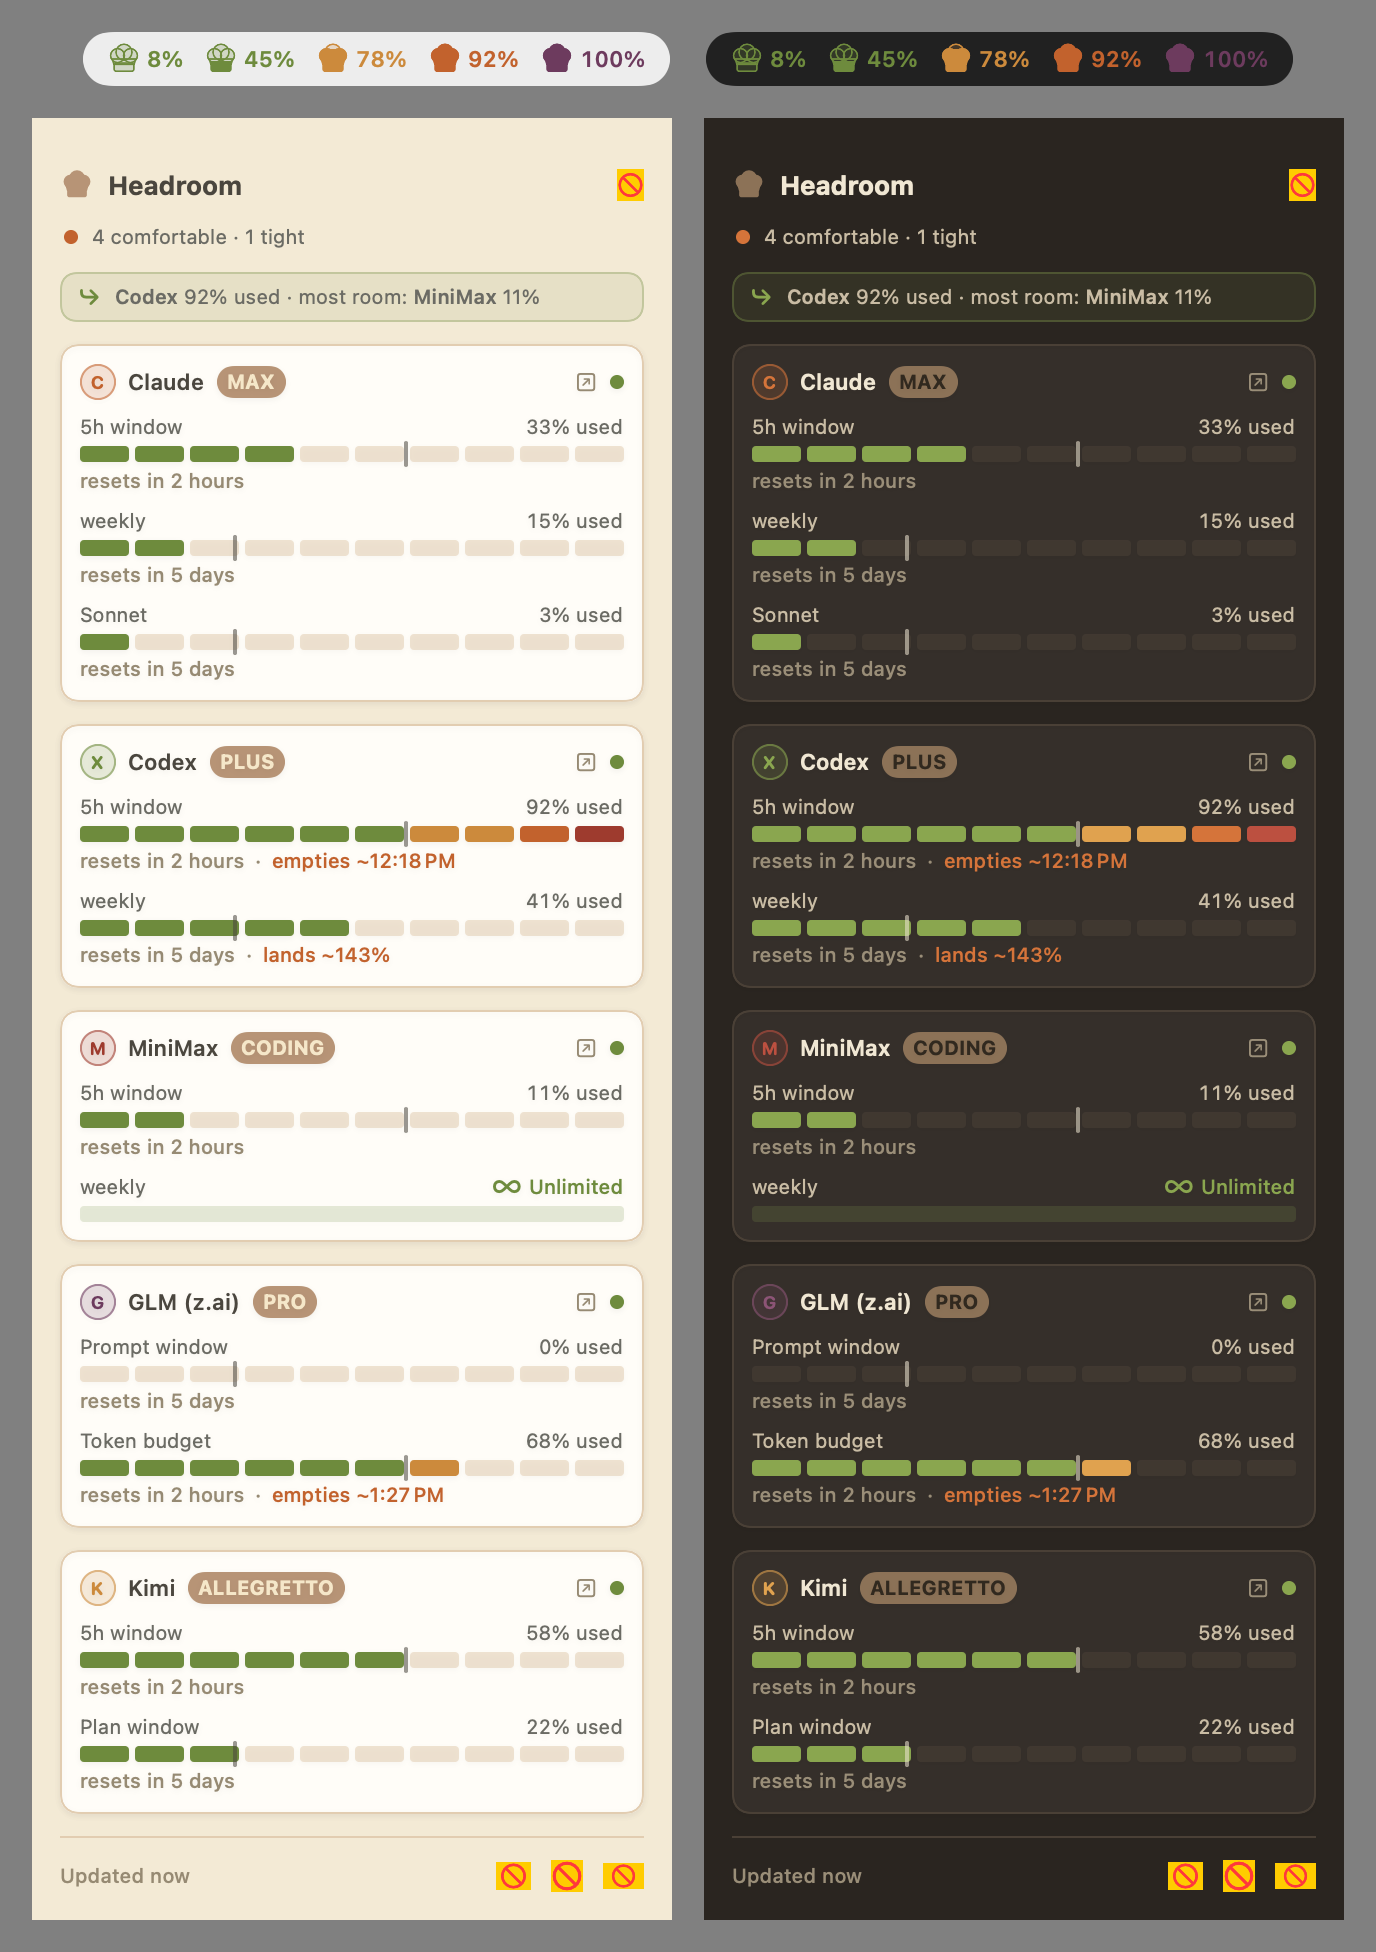
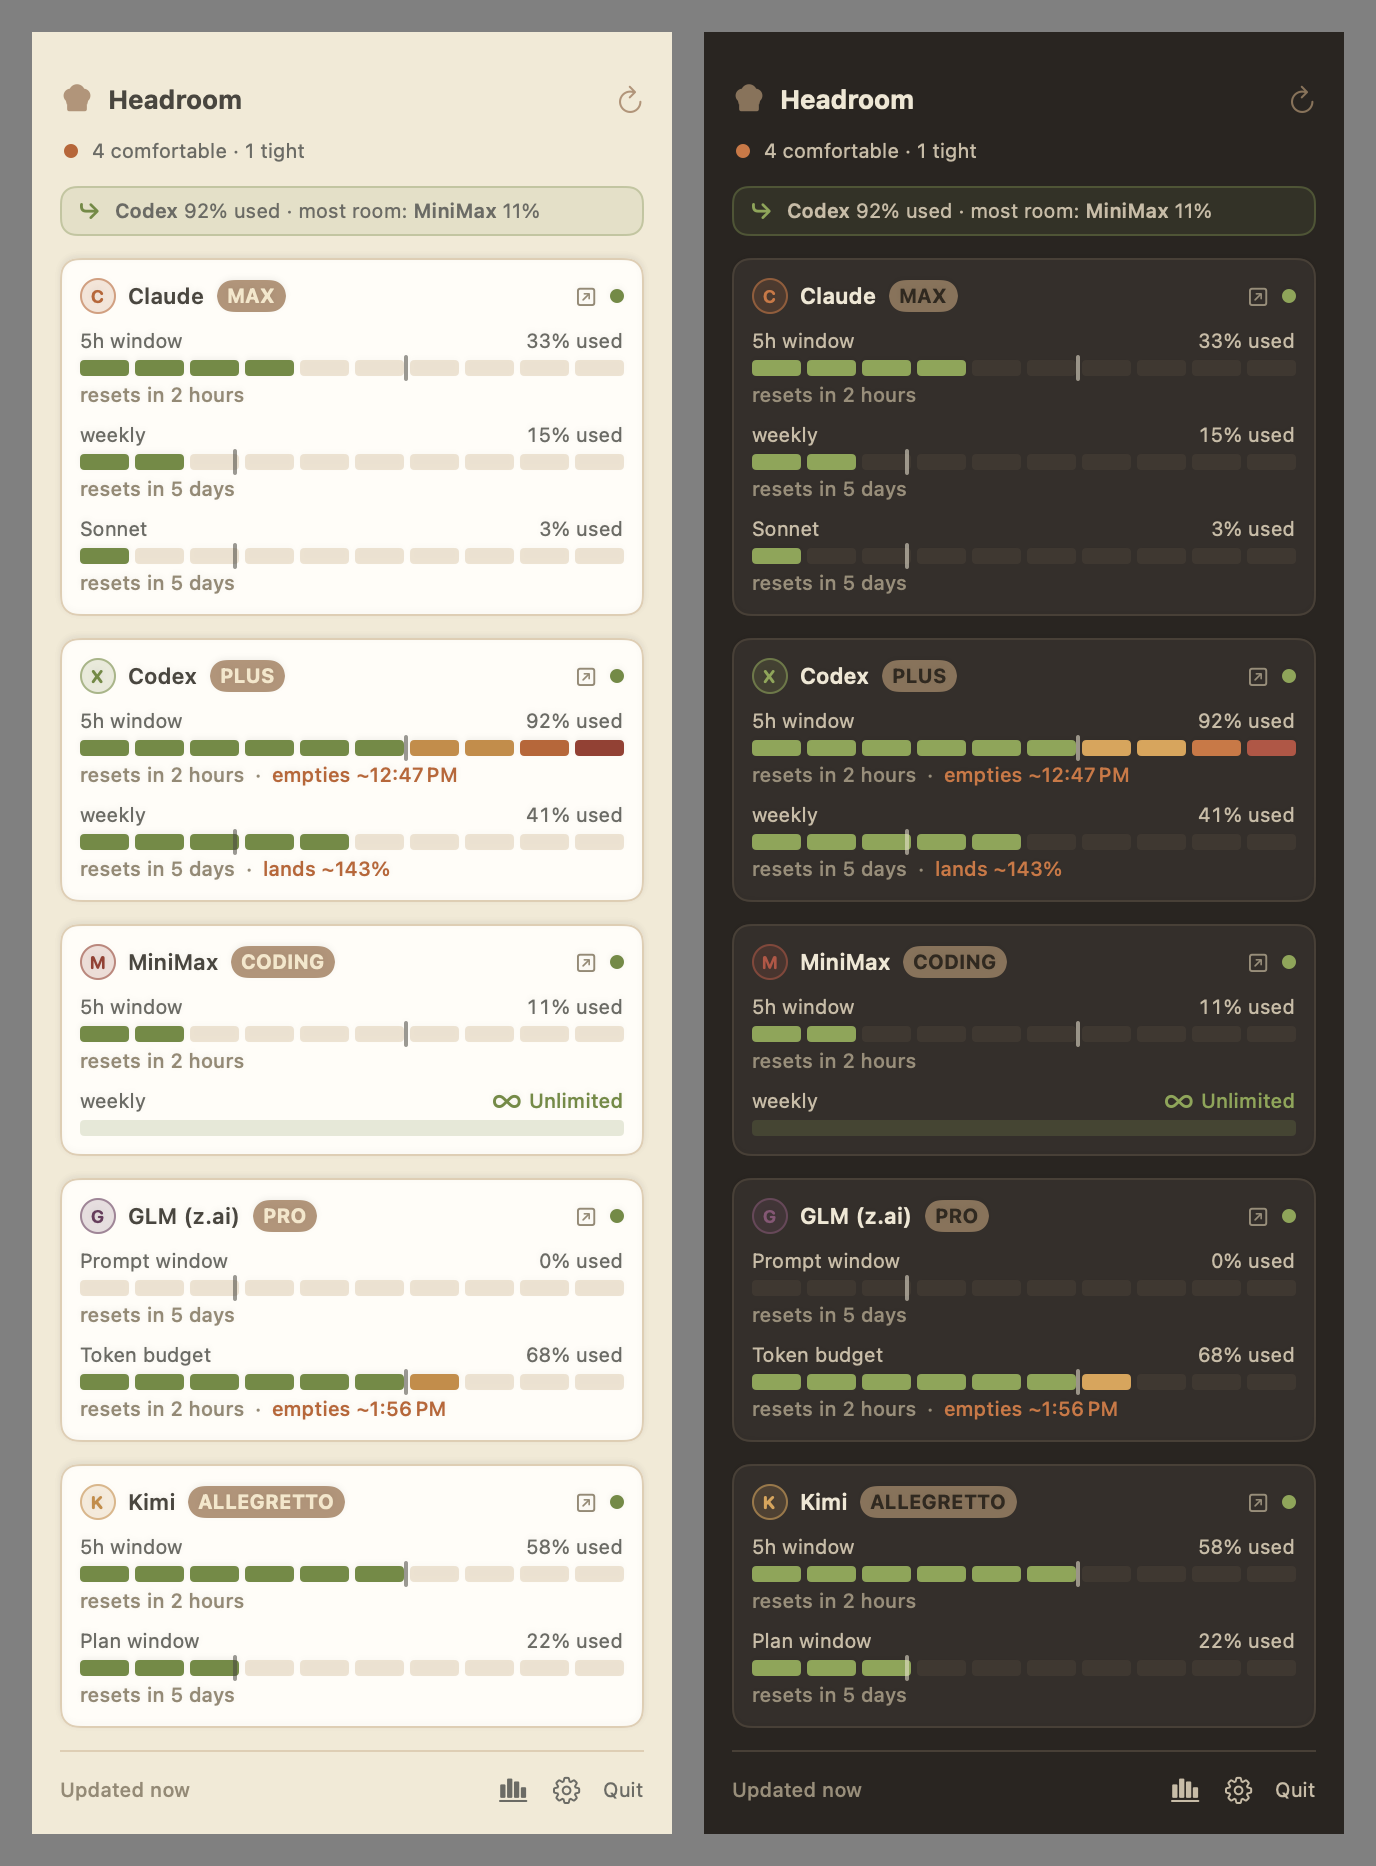
fix(screenshots): popover SF Symbols render correctly
Route --snapshot through a real NSHostingView + cacheDisplay instead of
ImageRenderer (which drew a missing-image placeholder for every symbol button).
Regenerated popover screenshot.

diff --git a/Sources/HeadroomApp/Snapshot.swift b/Sources/HeadroomApp/Snapshot.swift
@@ -1,71 +1,14 @@
-import SwiftUI
-import AppKit
+import Foundation
 import HeadroomKit
 
-/// Renders the popover to a PNG with representative mock data, light and dark side by
-/// side. Triggered by `--snapshot <path>`; never runs in the shipping menu-bar flow.
+/// Mock data for the dev screenshot paths (`--snapshot` popover, `--open history --shoot`).
+/// The actual rendering is done by `AppDelegate.renderPopover` / `renderAndShoot` through a
+/// real NSHostingView + cacheDisplay — that path resolves SF Symbols, which ImageRenderer
+/// cannot. This file is just the representative data those renders display.
 enum Snapshot {
-    @MainActor
-    static func run(to path: String) {
-        let model = AppModel()
-        model.usages = mock
-        model.lastRefresh = Date()
-
-        let view = VStack(spacing: 16) {
-            iconStrip
-            HStack(alignment: .top, spacing: 16) {
-                MenuContent(model: model).environment(\.colorScheme, .light)
-                MenuContent(model: model).environment(\.colorScheme, .dark)
-            }
-        }
-        .padding(16)
-        .background(Color(white: 0.5))
-
-        let renderer = ImageRenderer(content: view)
-        renderer.scale = 2
-        guard let cg = renderer.cgImage else {
-            FileHandle.standardError.write(Data("snapshot: render failed\n".utf8))
-            exit(1)
-        }
-        let rep = NSBitmapImageRep(cgImage: cg)
-        guard let png = rep.representation(using: .png, properties: [:]) else {
-            FileHandle.standardError.write(Data("snapshot: PNG encode failed\n".utf8))
-            exit(1)
-        }
-        try? png.write(to: URL(fileURLWithPath: path))
-        print("snapshot written: \(path)")
-        exit(0)
-    }
-
-    /// The menu-bar mark at a range of fills, on a light and a dark menu-bar pill, so a
-    /// snapshot shows how the chef-hat gauge fills and warms across the ramp.
-    @ViewBuilder
-    static var iconStrip: some View {
-        let fills: [Double] = [0.08, 0.45, 0.78, 0.92, 1.15]
-        HStack(spacing: 18) {
-            ForEach([ColorScheme.light, .dark], id: \.self) { scheme in
-                HStack(spacing: 10) {
-                    ForEach(fills, id: \.self) { f in
-                        HStack(spacing: 3) {
-                            ChefHatGauge(fraction: f,
-                                         tint: Color(hex: Theme.light.ramp(fraction: f)))
-                                .frame(width: 17, height: 17)
-                            Text("\(Int((min(f,1) * 100).rounded()))%")
-                                .font(.system(size: 11, weight: .semibold).monospacedDigit())
-                                .foregroundStyle(Color(hex: Theme.light.ramp(fraction: f)))
-                        }
-                    }
-                }
-                .padding(.horizontal, 12).padding(.vertical, 5)
-                .background(scheme == .dark ? Color(white: 0.13) : Color(white: 0.93),
-                            in: Capsule())
-            }
-        }
-    }
-
-    /// Synthetic token history for the snapshot (the live path reads ~/.claude logs).
-    /// 120 days with a weekday-weighted, slightly random-looking ramp so the heatmap +
-    /// trend show texture. No Date.now ban here — this is app code, not a workflow script.
+    /// Synthetic token history for the History screenshot (the live path reads ~/.claude logs).
+    /// 120 days with a weekday-weighted, slightly random-looking ramp so the heatmap + trend
+    /// show texture. Deterministic (no Date.now ban here — this is app code, not a workflow).
     static var mockTokens: [TokenDay] {
         let cal = Calendar.current
         let today = cal.startOfDay(for: Date())

diff --git a/Sources/HeadroomApp/HeadroomApp.swift b/Sources/HeadroomApp/HeadroomApp.swift
@@ -8,11 +8,9 @@ import HeadroomKit
 enum Entry {
     static func main() {
         let args = CommandLine.arguments
-        if let i = args.firstIndex(of: "--snapshot") {
-            let path = args[safe: i + 1] ?? "headroom-snapshot.png"
-            MainActor.assumeIsolated { Snapshot.run(to: path) }
-            return
-        }
+        // `--snapshot` is handled in applicationDidFinishLaunching (a real NSHostingView +
+        // cacheDisplay), NOT here via ImageRenderer — ImageRenderer can't rasterize SF
+        // Symbols and emits the yellow "missing image" placeholder for every symbol button.
         if let i = args.firstIndex(of: "--render-icon") {
             let path = args[safe: i + 1] ?? "icon.png"
             let px = Int(args[safe: i + 2] ?? "1024") ?? 1024
@@ -38,6 +36,7 @@ enum AppLaunchFlags {
     }
     static var openWindowID: String? { value(after: "--open") }
     static var shootPath: String? { value(after: "--shoot") }
+    static var snapshotPath: String? { value(after: "--snapshot") }
 }
 
 /// Render the largest visible standard window's content to a PNG (real rendering,
@@ -168,6 +167,11 @@ final class AppDelegate: NSObject, NSApplicationDelegate {
     private var onboardingWindow: NSWindow?
 
     func applicationDidFinishLaunching(_ notification: Notification) {
+        if let snap = AppLaunchFlags.snapshotPath {
+            NSApp.setActivationPolicy(.regular)
+            renderPopover(to: snap)
+            return
+        }
         if let shot = AppLaunchFlags.shootPath {
             NSApp.setActivationPolicy(.regular)
             renderAndShoot(AppLaunchFlags.openWindowID ?? "history", to: shot)
@@ -207,6 +211,40 @@ final class AppDelegate: NSObject, NSApplicationDelegate {
         onboardingWindow = win
         NSApp.activate(ignoringOtherApps: true)
         win.makeKeyAndOrderFront(nil)
+    }
+
+    /// Render the popover (light + dark, side by side) to a PNG via a real NSHostingView +
+    /// cacheDisplay, then quit. The real-view path resolves SF Symbols (the refresh / history
+    /// / gear buttons), which ImageRenderer cannot — it would draw the missing-image
+    /// placeholder for each. Mock data so it shows the full 5-provider lineup + capacity + hint.
+    @MainActor private func renderPopover(to path: String) {
+        func mock() -> AppModel {
+            let m = AppModel(); m.usages = Snapshot.mock; m.lastRefresh = Date(); return m
+        }
+        let root = HStack(alignment: .top, spacing: 16) {
+            MenuContent(model: mock()).environment(\.colorScheme, .light)
+            MenuContent(model: mock()).environment(\.colorScheme, .dark)
+        }
+        .padding(16)
+        .background(Color(white: 0.5))
+
+        let win = NSWindow(contentRect: NSRect(x: 0, y: 0, width: 760, height: 1000),
+                           styleMask: [.titled], backing: .buffered, defer: false)
+        let host = NSHostingView(rootView: root)
+        win.contentView = host
+        win.makeKeyAndOrderFront(nil)
+        host.layoutSubtreeIfNeeded()
+        win.setContentSize(host.fittingSize)   // shrink-wrap to the rendered content
+        shotWindow = win
+        DispatchQueue.main.asyncAfter(deadline: .now() + 1.4) {
+            guard let view = win.contentView,
+                  let rep = view.bitmapImageRepForCachingDisplay(in: view.bounds) else { exit(1) }
+            view.cacheDisplay(in: view.bounds, to: rep)
+            if let png = rep.representation(using: .png, properties: [:]) {
+                try? png.write(to: URL(fileURLWithPath: path))
+            }
+            exit(0)
+        }
     }
 
     @MainActor private func renderAndShoot(_ id: String, to path: String) {